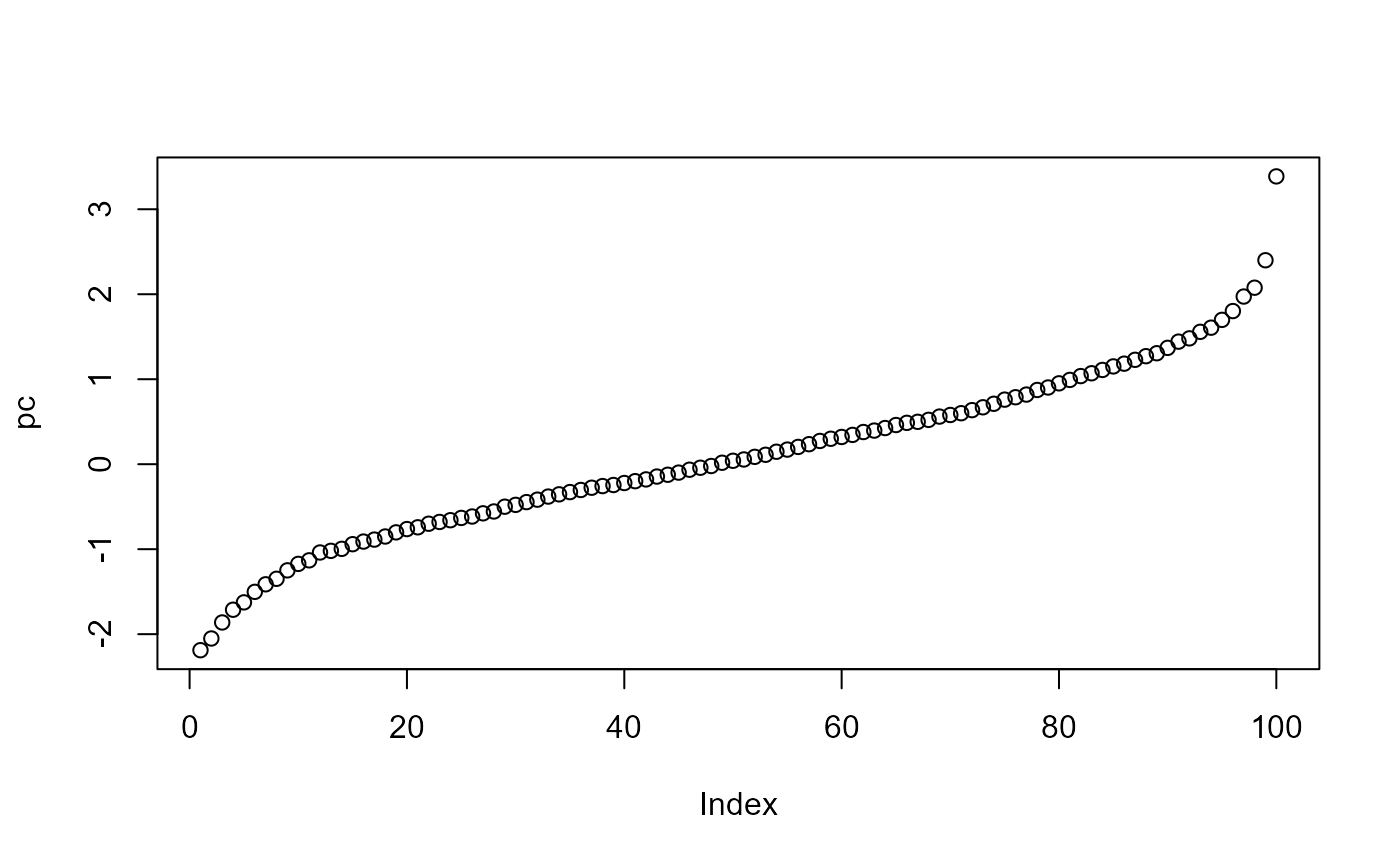
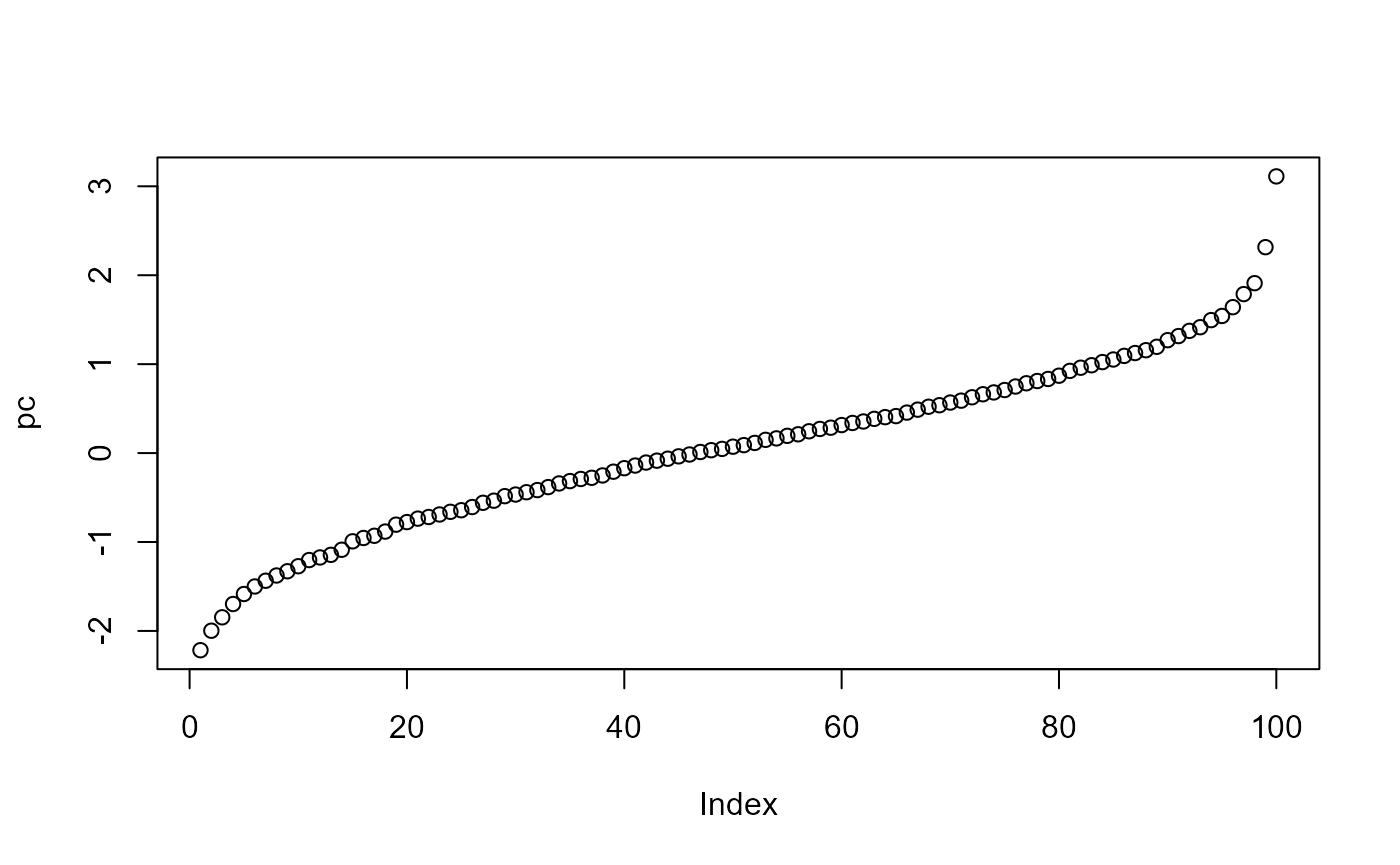
update site

diff --git a/docs/articles/vtablehelpers.html b/docs/articles/vtablehelpers.html
@@ -97,7 +97,7 @@
                         <h4 data-toc-skip class="author">Nick
 Huntington-Klein</h4>
             
-            <h4 data-toc-skip class="date">2023-09-28</h4>
+            <h4 data-toc-skip class="date">2023-10-05</h4>
       
       <small class="dont-index">Source: <a href="https://github.com/NickCH-K/vtable/blob/HEAD/vignettes/vtablehelpers.Rmd" class="external-link"><code>vignettes/vtablehelpers.Rmd</code></a></small>
       <div class="hidden name"><code>vtablehelpers.Rmd</code></div>
@@ -240,7 +240,7 @@ This can be convenient in several applications, an obvious one being in
 <span><span class="co">#25th, 50th, 75th percentile</span></span>
 <span><span class="va">pc</span><span class="op">[</span><span class="fu"><a href="https://rdrr.io/r/base/c.html" class="external-link">c</a></span><span class="op">(</span><span class="fl">25</span>,<span class="fl">50</span>,<span class="fl">75</span><span class="op">)</span><span class="op">]</span></span></code></pre></div>
 <pre><code><span><span class="co">##         25%         50%         75% </span></span>
-<span><span class="co">## -0.63228628  0.04019413  0.75975816</span></span></code></pre>
+<span><span class="co">## -0.64265824  0.07195887  0.70911124</span></span></code></pre>
 <div class="sourceCode" id="cb7"><pre class="downlit sourceCode r">
 <code class="sourceCode R"><span><span class="co">#Inverse normal CDF with 100 points of articulation</span></span>
 <span><span class="fu"><a href="https://rdrr.io/r/graphics/plot.default.html" class="external-link">plot</a></span><span class="op">(</span><span class="va">pc</span><span class="op">)</span></span></code></pre></div>

diff --git a/docs/reference/independence.test.html b/docs/reference/independence.test.html
@@ -112,7 +112,7 @@
 
 
 <dt>numeric.test</dt>
-<dd><p>Used when <code>y</code> is numeric, a function that takes <code>x</code> and <code>y</code> as its first arguments and returns a list with three arguments: (1) The name of the test for printing, (2) the test statistic, and (3) the p-value. Defaults to a group differences F test.</p></dd>
+<dd><p>Used when <code>y</code> is numeric, a function that takes <code>x</code> and <code>y</code> as its first arguments and returns a list with three arguments: (1) The name of the test for printing, (2) the test statistic, and (3) the p-value. Defaults to a group differences F test. If you only have two groups and would prefer an absolute t-statistic to an F-statistic, pass <code>vtable:::groupt.it</code>.</p></dd>
 
 
 <dt>star.cutoffs</dt>

diff --git a/docs/articles/dftotable.html b/docs/articles/dftotable.html
@@ -98,7 +98,7 @@ Formatting</h1>
                         <h4 data-toc-skip class="author">Nick
 Huntington-Klein</h4>
             
-            <h4 data-toc-skip class="date">2023-09-28</h4>
+            <h4 data-toc-skip class="date">2023-10-05</h4>
       
       <small class="dont-index">Source: <a href="https://github.com/NickCH-K/vtable/blob/HEAD/vignettes/dftotable.Rmd" class="external-link"><code>vignettes/dftotable.Rmd</code></a></small>
       <div class="hidden name"><code>dftotable.Rmd</code></div>

diff --git a/docs/articles/vtablefunction.html b/docs/articles/vtablefunction.html
@@ -98,7 +98,7 @@
                         <h4 data-toc-skip class="author">Nick
 Huntington-Klein</h4>
             
-            <h4 data-toc-skip class="date">2023-09-28</h4>
+            <h4 data-toc-skip class="date">2023-10-05</h4>
       
       <small class="dont-index">Source: <a href="https://github.com/NickCH-K/vtable/blob/HEAD/vignettes/vtablefunction.Rmd" class="external-link"><code>vignettes/vtablefunction.Rmd</code></a></small>
       <div class="hidden name"><code>vtablefunction.Rmd</code></div>

diff --git a/docs/articles/labeltable.html b/docs/articles/labeltable.html
@@ -98,7 +98,7 @@
                         <h4 data-toc-skip class="author">Nick
 Huntington-Klein</h4>
             
-            <h4 data-toc-skip class="date">2023-09-28</h4>
+            <h4 data-toc-skip class="date">2023-10-05</h4>
       
       <small class="dont-index">Source: <a href="https://github.com/NickCH-K/vtable/blob/HEAD/vignettes/labeltable.Rmd" class="external-link"><code>vignettes/labeltable.Rmd</code></a></small>
       <div class="hidden name"><code>labeltable.Rmd</code></div>

diff --git a/docs/articles/sumtable.html b/docs/articles/sumtable.html
@@ -98,7 +98,7 @@
                         <h4 data-toc-skip class="author">Nick
 Huntington-Klein</h4>
             
-            <h4 data-toc-skip class="date">2023-09-28</h4>
+            <h4 data-toc-skip class="date">2023-10-05</h4>
       
       <small class="dont-index">Source: <a href="https://github.com/NickCH-K/vtable/blob/HEAD/vignettes/sumtable.Rmd" class="external-link"><code>vignettes/sumtable.Rmd</code></a></small>
       <div class="hidden name"><code>sumtable.Rmd</code></div>

diff --git a/docs/articles/vtable.html b/docs/articles/vtable.html
@@ -97,7 +97,7 @@
                         <h4 data-toc-skip class="author">Nick
 Huntington-Klein</h4>
             
-            <h4 data-toc-skip class="date">2023-09-28</h4>
+            <h4 data-toc-skip class="date">2023-10-05</h4>
       
       <small class="dont-index">Source: <a href="https://github.com/NickCH-K/vtable/blob/HEAD/vignettes/vtable.Rmd" class="external-link"><code>vignettes/vtable.Rmd</code></a></small>
       <div class="hidden name"><code>vtable.Rmd</code></div>
